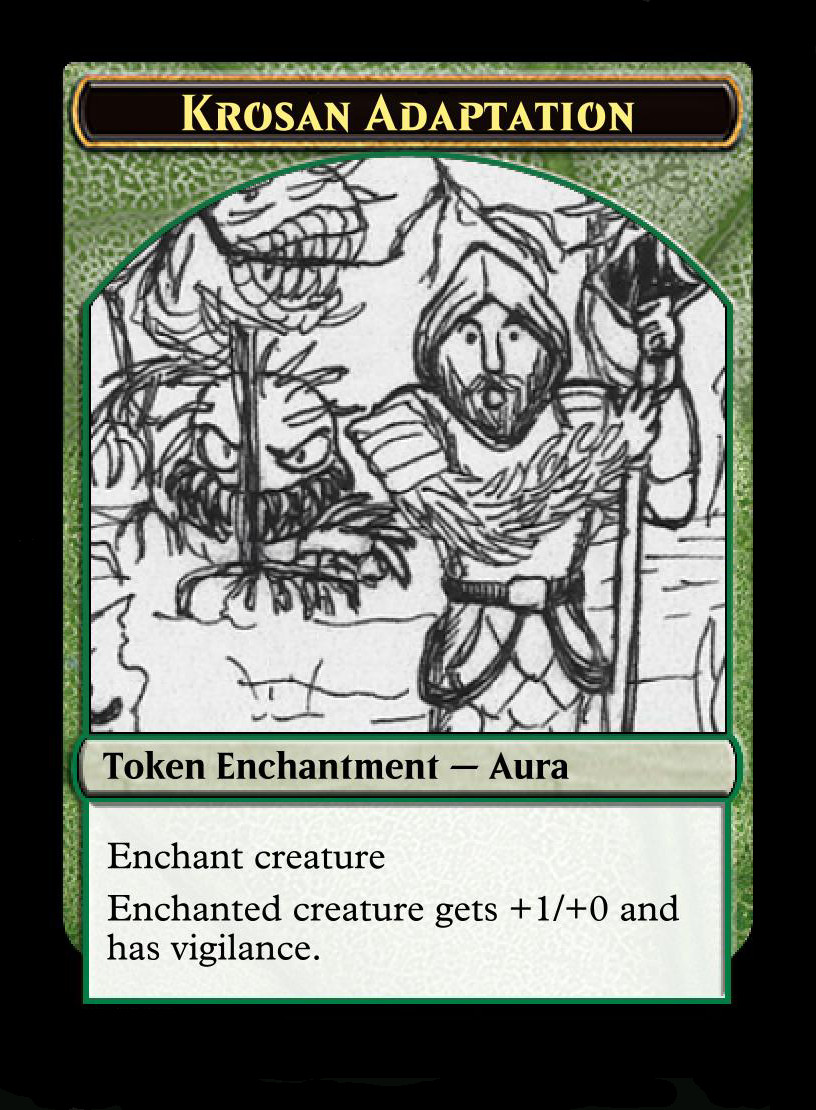
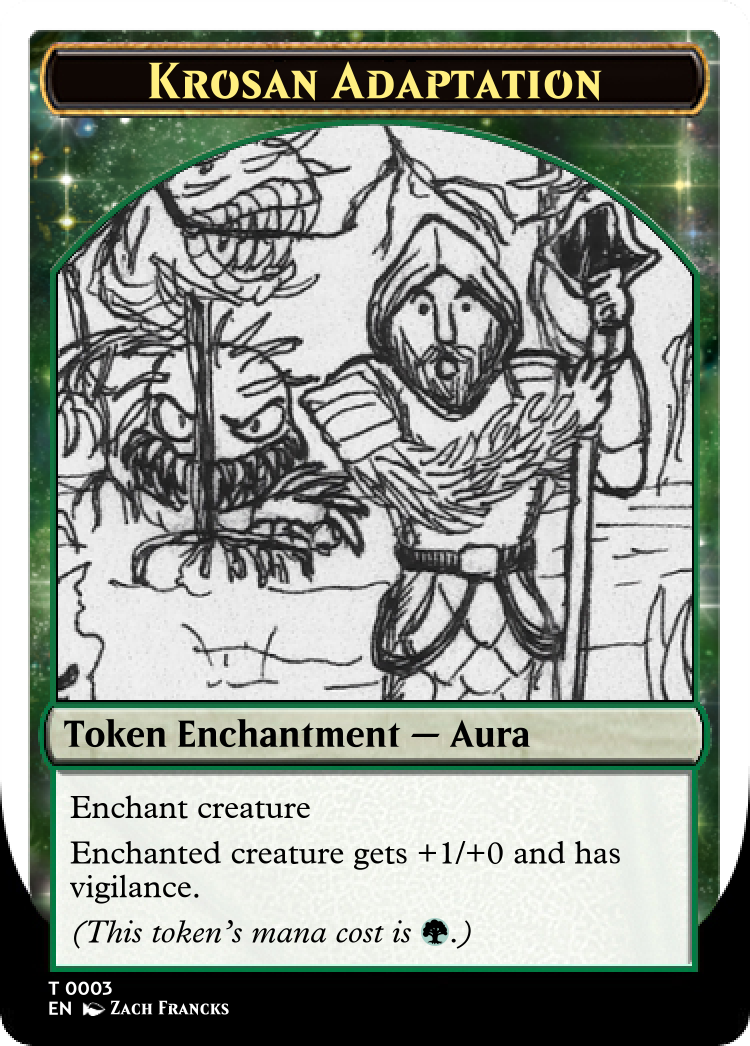
fix CMB1 tokens

diff --git a/TODO.md b/TODO.md
@@ -6,9 +6,6 @@
 
 ## Fix cards
 
-- CMB1: _Krosan Adaptation token_ should have its mana cost in its reminder text.
-- CMB1: _Pacifism token_ should have its mana cost in its reminder text.
-- CMB1: _Reassembling Skeleton token_ should have its mana cost in its reminder text.
 - PMOA: _Arrest token_ should have its mana cost in its reminder text.
 - PSDG: _Murgish Cemetery_ should specify the token creature type, Zombie.
 
